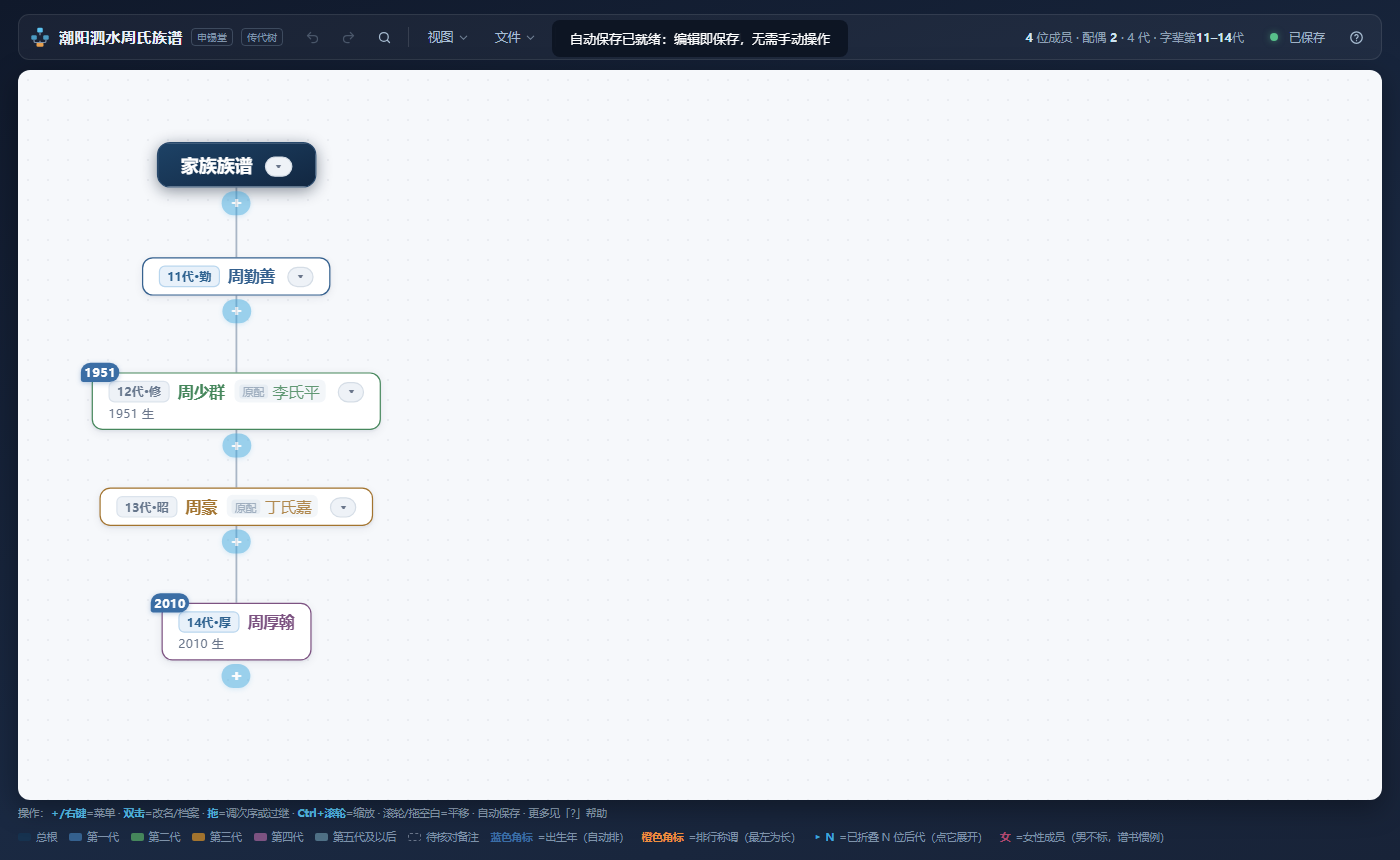
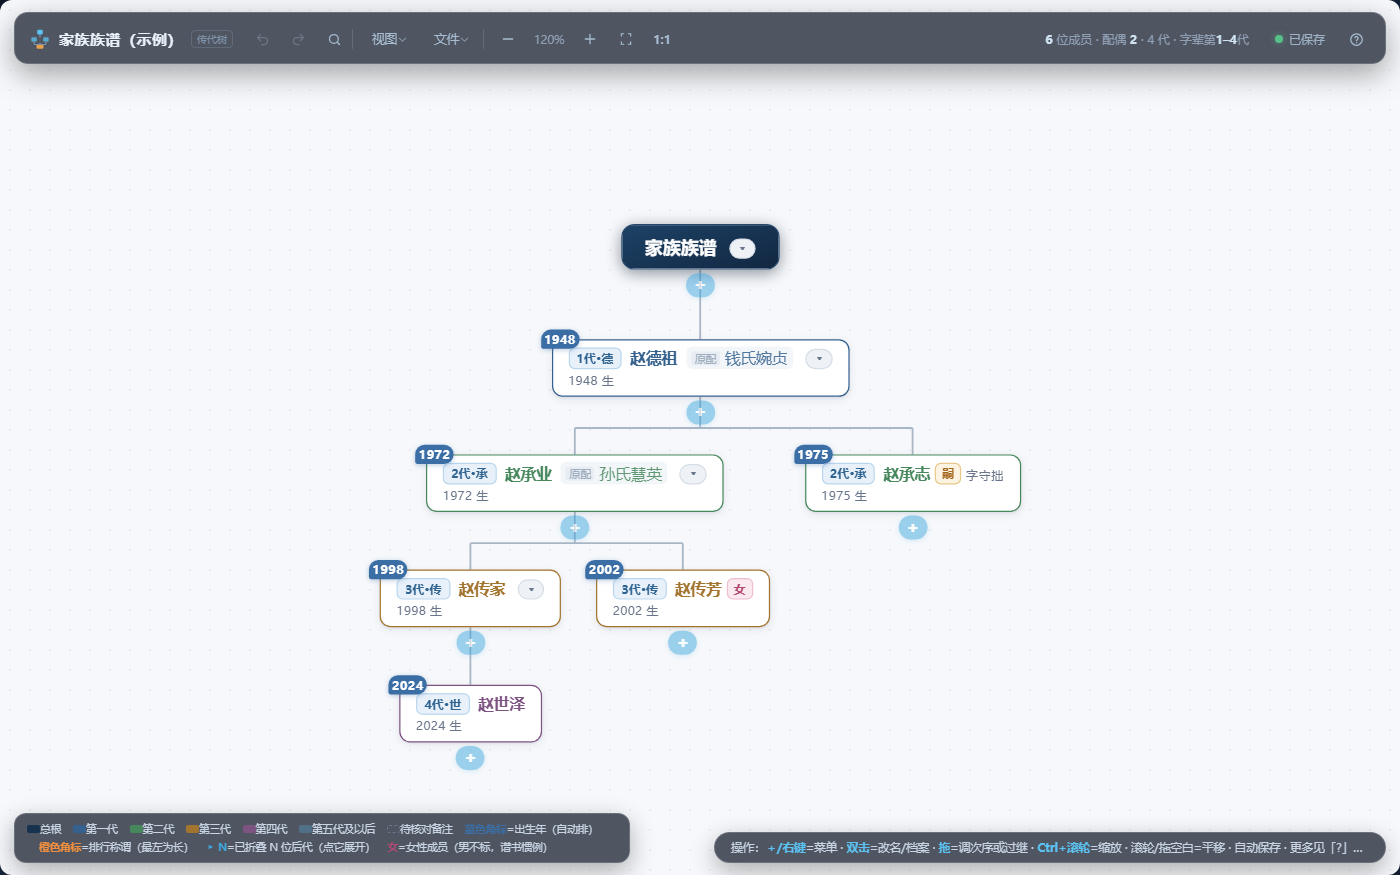
README 界面截图按 v15.35 重做：四语言各出常规/竖排两张（演示数据、居中构图、无 toast）；英文 README 不再挂中文界面图；清理无引用旧图

diff --git a/README.ja.md b/README.ja.md
@@ -26,7 +26,7 @@
 
 | 通常ツリー | 譜書縦書き（古法） |
 | --- | --- |
-| ![通常ツリー](docs/preview-tree.png) | ![縦書き](docs/preview-vertical.png) |
+| ![通常ツリー](docs/preview-tree-ja.png) | ![縦書き](docs/preview-vertical-ja.png) |
 
 **譜書縦書き（古法）**は伝統的な族譜の体裁を再現：世代ごとに行をまとめ、名を縦書き
 （右→左）、行の左に世代を表示——印刷 / PDF 出力すればそのまま**製本できます**。

diff --git a/README.en.md b/README.en.md
@@ -26,7 +26,7 @@ browser, and every change is saved automatically.
 
 | Standard tree | Vertical book layout (traditional) |
 | --- | --- |
-| ![Standard tree](docs/preview-tree.png) | ![Vertical book](docs/preview-vertical.png) |
+| ![Standard tree](docs/preview-tree-en.png) | ![Vertical book](docs/preview-vertical-en.png) |
 
 The **vertical book layout** follows the conventions of traditional Chinese genealogy
 books: generations as rows, names written top-to-bottom (right to left), generation

diff --git a/README.zh-Hant.md b/README.zh-Hant.md
@@ -26,7 +26,7 @@
 
 | 常規傳代樹 | 譜書豎排（古法） |
 | --- | --- |
-| ![常規傳代樹](docs/preview-tree.png) | ![譜書豎排](docs/preview-vertical.png) |
+| ![常規傳代樹](docs/preview-tree-zh-Hant.png) | ![譜書豎排](docs/preview-vertical-zh-Hant.png) |
 
 **譜書豎排**按傳統修譜版式還原：世代成行、名字豎書（右→左）、行左標世數、墨字吊線——
 列印 / 匯出 PDF 即可**裝訂成冊**。
